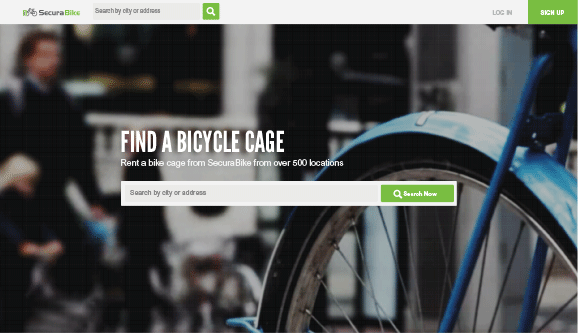
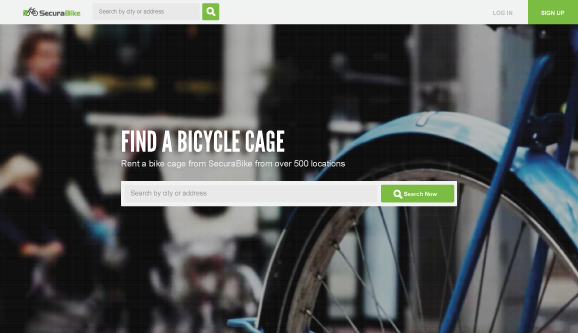
NM-674 Remove white lines from images, decrease auto scroll timer, and remove lower scroller gap for near-me.com.

diff --git a/app/assets/stylesheets/platform_home/style.css.scss b/app/assets/stylesheets/platform_home/style.css.scss
@@ -174,7 +174,7 @@ textarea.form-control { height:180px; }
 .tab-pane .feature h4 { text-transform: uppercase; font-size:19px; color: #404040; }
 
 .slider-small { text-align:center; max-width: 777px; margin: 0 auto; position: relative; }
-.slider-clip { background:#222; -moz-border-radius-topleft: 10px; -webkit-border-top-left-radius: 10px;  border-top-left-radius: 10px; -moz-border-radius-topright: 10px; -webkit-border-top-right-radius: 10px; border-top-right-radius: 10px; padding:30px 20px 0 20px; display: inline-block; width: 577px; }
+.slider-clip { background:#222; -moz-border-radius-topleft: 10px; -webkit-border-top-left-radius: 10px;  border-top-left-radius: 10px; -moz-border-radius-topright: 10px; -webkit-border-top-right-radius: 10px; border-top-right-radius: 10px; padding:30px 20px 0 20px; display: inline-block; vertical-align: bottom; width: 577px; }
 
 .slides .slide { float:left; }
 .slides .slide img { display:block; width: 100%}

diff --git a/app/assets/javascripts/platform_home/main.js b/app/assets/javascripts/platform_home/main.js
@@ -63,7 +63,7 @@
 			$('.top-slider').show();
 			$('.top-slider .slides').carouFredSel({
 				responsive: true,
-				auto: 5000,
+				auto: 4000,
 				height: 'variable',
 				item: {
 					width: '100%',
